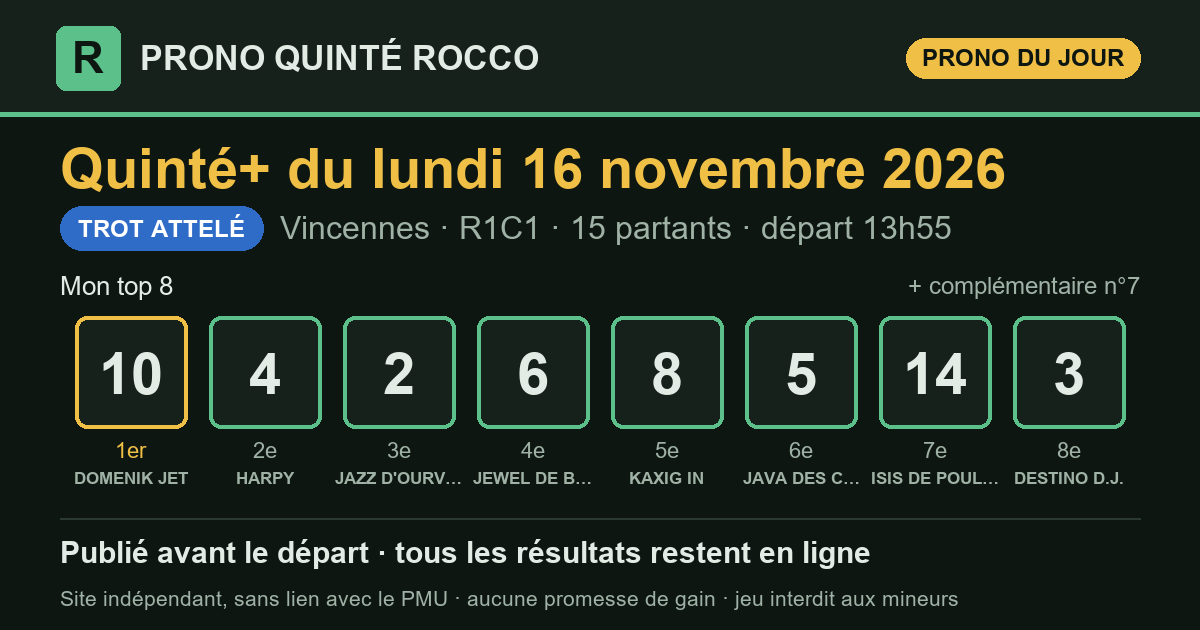
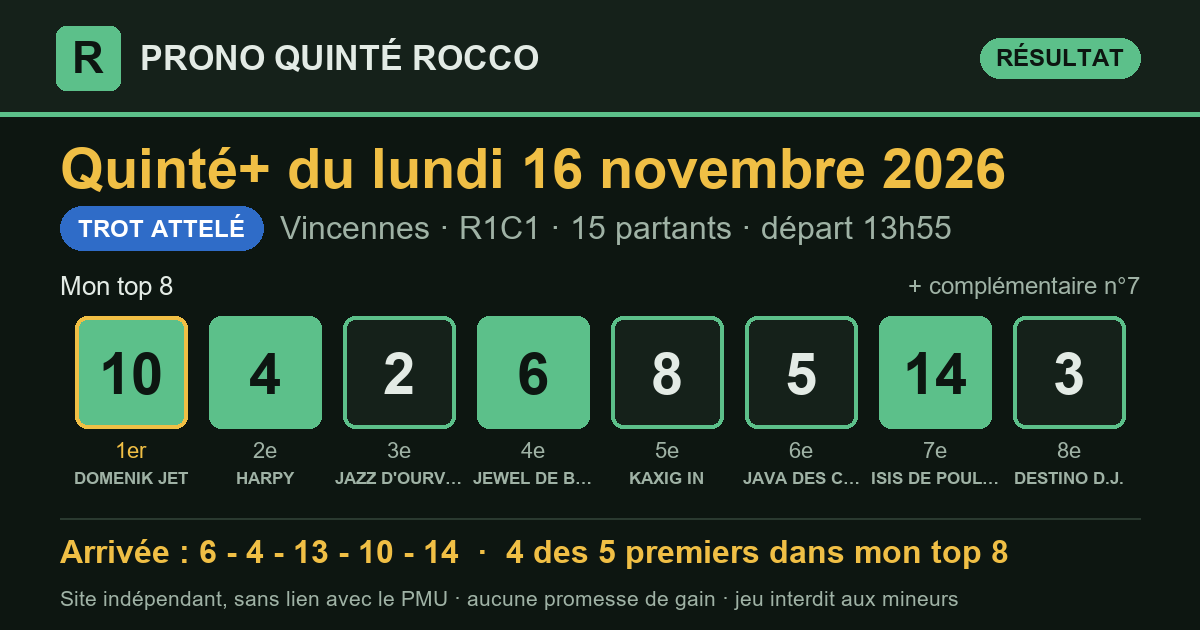
Résultat du Quinté+ 2026-11-16 Vincennes R1C1 — publié le 16/11/2026 14:06 (heure de Paris)

diff --git a/index.html b/index.html
@@ -16,7 +16,7 @@
 <meta property="og:title" content="Pronostics Quinté+ et Super Pick 5 du lundi 16 novembre 2026 — Prono Quinté Rocco">
 <meta property="og:description" content="Pronostics Quinté+ (Prix d&#x27;Aigues Mortes) et Super Pick 5 (Prix de Paimpol) du jour : mes top 8, publiés avant le départ, puis tous les résultats et le rendement réel.">
 <meta property="og:url" content="https://prono-quinte-rocco.fr/">
-<meta property="og:image" content="https://prono-quinte-rocco.fr/partage/jour-2026-11-16.png?v=d9d3d059">
+<meta property="og:image" content="https://prono-quinte-rocco.fr/partage/jour-2026-11-16.png?v=507f155d">
 <meta property="og:image:type" content="image/png">
 <meta property="og:image:width" content="1200">
 <meta property="og:image:height" content="630">
@@ -32,7 +32,7 @@
 <div class="jeux j-quinte" role="navigation" aria-label="Choix du jeu"><a class="jeu jeu-quinte actif" href="index.html" aria-current="true">Quinté+</a><a class="jeu jeu-sp5" href="superpick5.html">e-Super Pick5<small>entre 17 h et 19 h</small></a></div>
 <main>
 <section class="une" aria-labelledby="t-jour">
-  <p class="surtitre">Quinté+ du jour</p>
+  <p class="surtitre">Dernier Quinté+</p>
   <h1 id="t-jour">Le prono du Quinté+, résultats compris</h1>
   <p class="chapo">Chaque matin, j'étudie les partants du Quinté+ avec le logiciel que
   j'ai conçu, selon ma propre méthode, qu'une intelligence artificielle m'aide à
@@ -43,10 +43,13 @@
   <p class="meta">Prix d&#x27;Aigues Mortes · Vincennes · <strong>R1C1</strong> · 15 partants · <span class="lisib">lisibilité <span class="note" aria-label="note 3 sur 5" title="lisibilité 3/5 : course assez ouverte"><i class="on"></i><i class="on"></i><i class="on"></i><i class=""></i><i class=""></i></span> 3/5</span></p>
   <div class="zone-prono">
     <h3 class="zone-titre">Mon top 8</h3>
-    <ol class="partants" aria-label="Mon top 8"><li><span class="rang">1<sup>er</sup></span><span class="tapis ">10</span><span class="nom">DOMENIK JET</span></li><li><span class="rang">2<sup>e</sup></span><span class="tapis ">4</span><span class="nom">HARPY</span></li><li><span class="rang">3<sup>e</sup></span><span class="tapis ">2</span><span class="nom">JAZZ D&#x27;OURVILLE</span></li><li><span class="rang">4<sup>e</sup></span><span class="tapis ">6</span><span class="nom">JEWEL DE BANVILLE</span></li><li><span class="rang">5<sup>e</sup></span><span class="tapis ">8</span><span class="nom">KAXIG IN</span></li><li><span class="rang">6<sup>e</sup></span><span class="tapis ">5</span><span class="nom">JAVA DES CAILLONS</span></li><li><span class="rang">7<sup>e</sup></span><span class="tapis ">14</span><span class="nom">ISIS DE POULINE</span></li><li><span class="rang">8<sup>e</sup></span><span class="tapis ">3</span><span class="nom">DESTINO D.J.</span></li><li><span class="rang">compl.</span><span class="tapis creux">7</span><span class="nom">IQUEM</span></li></ol>
+    <ol class="partants" aria-label="Mon top 8"><li><span class="rang">1<sup>er</sup></span><span class="tapis plein">10</span><span class="nom">DOMENIK JET</span></li><li><span class="rang">2<sup>e</sup></span><span class="tapis plein">4</span><span class="nom">HARPY</span></li><li><span class="rang">3<sup>e</sup></span><span class="tapis ">2</span><span class="nom">JAZZ D&#x27;OURVILLE</span></li><li><span class="rang">4<sup>e</sup></span><span class="tapis plein">6</span><span class="nom">JEWEL DE BANVILLE</span></li><li><span class="rang">5<sup>e</sup></span><span class="tapis ">8</span><span class="nom">KAXIG IN</span></li><li><span class="rang">6<sup>e</sup></span><span class="tapis ">5</span><span class="nom">JAVA DES CAILLONS</span></li><li><span class="rang">7<sup>e</sup></span><span class="tapis plein">14</span><span class="nom">ISIS DE POULINE</span></li><li><span class="rang">8<sup>e</sup></span><span class="tapis ">3</span><span class="nom">DESTINO D.J.</span></li><li><span class="rang">compl.</span><span class="tapis creux">7</span><span class="nom">IQUEM</span></li></ol>
     <div class="pied-carte"><span>Analysé le 16/11 à 09:40 · en ligne le 16/11 à 09:51 · départ à 13:55 (heure de Paris)</span><span><a href="quinte/2026-11-16.html">Détail de la course</a></span></div>
   </div>
-  <div class="zone-arrivee attente"><p>L'arrivée officielle s'affichera ici après la course.</p></div>
+  <div class="zone-arrivee">
+    <div class="zone-tete"><h3 class="zone-titre">Arrivée officielle</h3><span class="etat place">4 des 5 premiers dans mon top 8</span><span class="etat non">mon 1er (n°10) : non placé</span></div>
+    <ol class="partants" aria-label="Arrivée officielle"><li><span class="rang">1<sup>er</sup></span><span class="tapis plein">6</span><span class="nom">JEWEL DE BANVILLE</span></li><li><span class="rang">2<sup>e</sup></span><span class="tapis plein">4</span><span class="nom">HARPY</span></li><li><span class="rang">3<sup>e</sup></span><span class="tapis hors">13</span><span class="nom">MAX OCCAGNES</span></li><li><span class="rang">4<sup>e</sup></span><span class="tapis plein">10</span><span class="nom">DOMENIK JET</span></li><li><span class="rang">5<sup>e</sup></span><span class="tapis plein">14</span><span class="nom">ISIS DE POULINE</span></li></ol>
+  </div>
 </article>
 </section>
 <section class="suivre" aria-label="Suivre et soutenir">
@@ -76,7 +79,7 @@
 </section>
 <section class="bilan" aria-labelledby="t-bilan">
   <h2 id="t-bilan">Mon bilan depuis le 8 septembre 2026</h2>
-  <div class="tableau chiffres"><div class="case"><span class="gros ">73 %</span><span class="lib">des arrivants trouvés dans mon top 8</span><span class="ref">un top 8 tiré au hasard : 51 %</span></div><div class="case"><span class="gros ">88 %</span><span class="lib">des gagnants présents dans mon top 8</span><span class="ref"></span></div><div class="case"><span class="gros ">49 %</span><span class="lib">mon 1er placé</span><span class="ref">sur 68 Quintés</span></div><div class="case"><span class="gros perte">0,89 €</span><span class="lib">rendus pour 1 € joué placé sur mon 1er</span><span class="ref">rapports officiels PMU</span></div><div class="case"><span class="gros perte">0,43 €</span><span class="lib">rendus pour 1 € joué en Quinté+ combiné sur mon top 8</span><span class="ref">56 combinaisons, rapports PMU.fr, sur 68 Quintés</span></div></div>
+  <div class="tableau chiffres"><div class="case"><span class="gros ">73 %</span><span class="lib">des arrivants trouvés dans mon top 8</span><span class="ref">un top 8 tiré au hasard : 51 %</span></div><div class="case"><span class="gros ">88 %</span><span class="lib">des gagnants présents dans mon top 8</span><span class="ref"></span></div><div class="case"><span class="gros ">48 %</span><span class="lib">mon 1er placé</span><span class="ref">sur 69 Quintés</span></div><div class="case"><span class="gros perte">0,88 €</span><span class="lib">rendus pour 1 € joué placé sur mon 1er</span><span class="ref">rapports officiels PMU</span></div><div class="case"><span class="gros perte">0,43 €</span><span class="lib">rendus pour 1 € joué en Quinté+ combiné sur mon top 8</span><span class="ref">56 combinaisons, rapports PMU.fr, sur 69 Quintés</span></div></div>
   <p class="avertissement">Moins de 1 € rendu pour 1 € joué : suivre mon prono à la lettre fait <strong>perdre de l'argent</strong> sur cette période. Il sert à analyser une course, pas à promettre un gain.</p>
 </section>
 </main>

diff --git a/partants.html b/partants.html
@@ -36,89 +36,89 @@
     <p class="fiche-depart">Départ <b>13:55</b> <span>heure de Paris</span></p>
   </div>
   <p class="surtitre">Les pronostics ailleurs sur le web</p>
-  <div class="liens"><a class="lien-ext" href="https://www.turfoo.fr/programmes-courses/261116/reunion1-vincennes/course1-prix-d-aigues-mortes/pronostics-presse/" rel="noopener" target="_blank"><b>Les pronostics de la presse →</b><span>sur Turfoo (site extérieur)</span></a><a class="lien-ext" href="https://www.geny.com/programme/2026-11-16" rel="noopener" target="_blank"><b>Partants et pronostics →</b><span>programme du jour sur Geny (site extérieur)</span></a></div>
+  <div class="liens"><a class="lien-ext" href="https://www.turfoo.fr/programmes-courses/261116/" rel="noopener" target="_blank"><b>Les pronostics de la presse →</b><span>sur Turfoo (site extérieur)</span></a><a class="lien-ext" href="https://www.geny.com/programme/2026-11-16" rel="noopener" target="_blank"><b>Partants et pronostics →</b><span>programme du jour sur Geny (site extérieur)</span></a></div>
   <div class="liste-boite"><table class="liste-partants">
     <thead><tr><th>N°</th><th>Cheval</th><th class="cote"><span class="long">Cote du matin</span><span class="court">Cote</span></th>
     <th class="ia"><span class="long">Mon prono</span><span class="court">Prono</span></th></tr></thead>
     <tbody><tr>
   <td><span class="tapis petit">1</span></td>
   <td><span class="cheval">ILIANO DES PLAINES</span><span class="sous">A. BARRIER · E. BOUYER</span></td>
-  <td class="cote num">37,0</td>
+  <td class="cote num">49,0</td>
   <td class="ia">—</td>
 </tr><tr>
   <td><span class="tapis petit">2</span></td>
   <td><span class="cheval">JAZZ D&#x27;OURVILLE</span><span class="sous">M. ABRIVARD · M. ABRIVARD</span></td>
-  <td class="cote num">7,8</td>
+  <td class="cote num">7,7</td>
   <td class="ia"><span class="etat place">3<sup>e</sup></span></td>
 </tr><tr>
   <td><span class="tapis petit">3</span></td>
   <td><span class="cheval">DESTINO D.J.</span><span class="sous">B. ROCHARD · H.E. BONDO</span></td>
-  <td class="cote num">14,0</td>
+  <td class="cote num">12,0</td>
   <td class="ia"><span class="etat place">8<sup>e</sup></span></td>
 </tr><tr>
   <td><span class="tapis petit">4</span></td>
   <td><span class="cheval">HARPY</span><span class="sous">R. BERGH · R. BERGH</span></td>
-  <td class="cote num">4,2</td>
+  <td class="cote num">4,8</td>
   <td class="ia"><span class="etat place">2<sup>e</sup></span></td>
 </tr><tr>
   <td><span class="tapis petit">5</span></td>
   <td><span class="cheval">JAVA DES CAILLONS</span><span class="sous">F. LAGADEUC · Sté. Ent. Christophe JARIEL</span></td>
-  <td class="cote num">17,0</td>
+  <td class="cote num">15,0</td>
   <td class="ia"><span class="etat place">6<sup>e</sup></span></td>
 </tr><tr>
   <td><span class="tapis petit">6</span></td>
   <td><span class="cheval">JEWEL DE BANVILLE</span><span class="sous">E. RAFFIN · A. CHAVATTE</span></td>
-  <td class="cote num">7,4</td>
+  <td class="cote num">7,7</td>
   <td class="ia"><span class="etat place">4<sup>e</sup></span></td>
 </tr><tr>
   <td><span class="tapis petit">7</span></td>
   <td><span class="cheval">IQUEM</span><span class="sous">A. COLLETTE · K. LEBLANC</span></td>
-  <td class="cote num">25,0</td>
+  <td class="cote num">27,0</td>
   <td class="ia"><span class="etat place">compl.</span></td>
 </tr><tr>
   <td><span class="tapis petit">8</span></td>
   <td><span class="cheval">KAXIG IN</span><span class="sous">M. MOTTIER · David PERSSON</span></td>
-  <td class="cote num">8,3</td>
+  <td class="cote num">8,4</td>
   <td class="ia"><span class="etat place">5<sup>e</sup></span></td>
 </tr><tr>
   <td><span class="tapis petit">9</span></td>
   <td><span class="cheval">I LOVE JOSSELYN</span><span class="sous">R. DERIEUX · R. DERIEUX</span></td>
-  <td class="cote num">31,0</td>
+  <td class="cote num">42,0</td>
   <td class="ia">—</td>
 </tr><tr>
   <td><span class="tapis petit">10</span></td>
   <td><span class="cheval">DOMENIK JET</span><span class="sous">G. GELORMINI · W. NIMCZYK</span></td>
-  <td class="cote num">5,5</td>
+  <td class="cote num">4,4</td>
   <td class="ia"><span class="etat place">1<sup>er</sup></span></td>
 </tr><tr>
   <td><span class="tapis petit">11</span></td>
   <td><span class="cheval">DILVA JET</span><span class="sous">A. ANDRE · H.E. BONDO</span></td>
-  <td class="cote num">50,0</td>
+  <td class="cote num">85,0</td>
   <td class="ia">—</td>
 </tr><tr>
   <td><span class="tapis petit">12</span></td>
   <td><span class="cheval">JUNKIE (SWE)</span><span class="sous">A. ABRIVARD · P. LEVESQUE</span></td>
-  <td class="cote num">44,0</td>
+  <td class="cote num">47,0</td>
   <td class="ia">—</td>
 </tr><tr>
   <td><span class="tapis petit">13</span></td>
   <td><span class="cheval">MAX OCCAGNES</span><span class="sous">D. LOCQUENEUX · D. LOCQUENEUX</span></td>
-  <td class="cote num">29,0</td>
+  <td class="cote num">49,0</td>
   <td class="ia">—</td>
 </tr><tr>
   <td><span class="tapis petit">14</span></td>
   <td><span class="cheval">ISIS DE POULINE</span><span class="sous">P.PH. PLOQUIN · J.L. VERRIERE</span></td>
-  <td class="cote num">39,0</td>
+  <td class="cote num">35,0</td>
   <td class="ia"><span class="etat place">7<sup>e</sup></span></td>
 </tr><tr>
   <td><span class="tapis petit">15</span></td>
   <td><span class="cheval">JAG HAUFOR</span><span class="sous">D. THOMAIN · CH. BIGEON</span></td>
-  <td class="cote num">23,0</td>
+  <td class="cote num">20,0</td>
   <td class="ia">—</td>
 </tr></tbody>
   </table></div>
   <p class="meta">La colonne « Mon prono » donne le rang de chaque cheval dans mon top 8, tel qu&#x27;il est publié sur ce site. Sous chaque cheval : driver · entraîneur. Partants et cotes : programme
-  officiel du PMU, lu le 16/11 à 09:51 (heure de Paris). NP = non-partant.</p>
+  officiel du PMU, lu le 16/11 à 14:06 (heure de Paris). NP = non-partant.</p>
 </section>
 </main>
 <footer class="pied">

diff --git a/quinte/2026-11-16.html b/quinte/2026-11-16.html
@@ -16,7 +16,7 @@
 <meta property="og:title" content="Pronostic Quinté+ du lundi 16 novembre 2026 : Prix d&#x27;Aigues Mortes à Vincennes — Prono Quinté Rocco">
 <meta property="og:description" content="Prono Quinté+ du lundi 16 novembre 2026 (Prix d&#x27;Aigues Mortes, Vincennes) : mon top 8, l&#x27;arrivée officielle et les rapports PMU.fr.">
 <meta property="og:url" content="https://prono-quinte-rocco.fr/quinte/2026-11-16.html">
-<meta property="og:image" content="https://prono-quinte-rocco.fr/partage/2026-11-16.png?v=a4883de8">
+<meta property="og:image" content="https://prono-quinte-rocco.fr/partage/2026-11-16.png?v=60ff8115">
 <meta property="og:image:type" content="image/png">
 <meta property="og:image:width" content="1200">
 <meta property="og:image:height" content="630">
@@ -36,15 +36,25 @@
   <h1>Pronostic Quinté+ du lundi 16 novembre 2026</h1>
   <p class="chapo">Prix d&#x27;Aigues Mortes · Vincennes · R1C1 · Attelé · 15 partants</p>
   <article class="carte-course">
-  <div class="tete"><h2>Mon prono</h2><span class="type t-attele">Trot attelé</span></div>
+  <div class="tete"><h2>Mon prono et l&#x27;arrivée officielle</h2><span class="type t-attele">Trot attelé</span></div>
   <p class="meta">Prix d&#x27;Aigues Mortes · Vincennes · <strong>R1C1</strong> · 15 partants · <span class="lisib">lisibilité <span class="note" aria-label="note 3 sur 5" title="lisibilité 3/5 : course assez ouverte"><i class="on"></i><i class="on"></i><i class="on"></i><i class=""></i><i class=""></i></span> 3/5</span></p>
   <div class="zone-prono">
     <h3 class="zone-titre">Mon top 8</h3>
-    <ol class="partants" aria-label="Mon top 8"><li><span class="rang">1<sup>er</sup></span><span class="tapis ">10</span><span class="nom">DOMENIK JET</span></li><li><span class="rang">2<sup>e</sup></span><span class="tapis ">4</span><span class="nom">HARPY</span></li><li><span class="rang">3<sup>e</sup></span><span class="tapis ">2</span><span class="nom">JAZZ D&#x27;OURVILLE</span></li><li><span class="rang">4<sup>e</sup></span><span class="tapis ">6</span><span class="nom">JEWEL DE BANVILLE</span></li><li><span class="rang">5<sup>e</sup></span><span class="tapis ">8</span><span class="nom">KAXIG IN</span></li><li><span class="rang">6<sup>e</sup></span><span class="tapis ">5</span><span class="nom">JAVA DES CAILLONS</span></li><li><span class="rang">7<sup>e</sup></span><span class="tapis ">14</span><span class="nom">ISIS DE POULINE</span></li><li><span class="rang">8<sup>e</sup></span><span class="tapis ">3</span><span class="nom">DESTINO D.J.</span></li><li><span class="rang">compl.</span><span class="tapis creux">7</span><span class="nom">IQUEM</span></li></ol>
+    <ol class="partants" aria-label="Mon top 8"><li><span class="rang">1<sup>er</sup></span><span class="tapis plein">10</span><span class="nom">DOMENIK JET</span></li><li><span class="rang">2<sup>e</sup></span><span class="tapis plein">4</span><span class="nom">HARPY</span></li><li><span class="rang">3<sup>e</sup></span><span class="tapis ">2</span><span class="nom">JAZZ D&#x27;OURVILLE</span></li><li><span class="rang">4<sup>e</sup></span><span class="tapis plein">6</span><span class="nom">JEWEL DE BANVILLE</span></li><li><span class="rang">5<sup>e</sup></span><span class="tapis ">8</span><span class="nom">KAXIG IN</span></li><li><span class="rang">6<sup>e</sup></span><span class="tapis ">5</span><span class="nom">JAVA DES CAILLONS</span></li><li><span class="rang">7<sup>e</sup></span><span class="tapis plein">14</span><span class="nom">ISIS DE POULINE</span></li><li><span class="rang">8<sup>e</sup></span><span class="tapis ">3</span><span class="nom">DESTINO D.J.</span></li><li><span class="rang">compl.</span><span class="tapis creux">7</span><span class="nom">IQUEM</span></li></ol>
     <div class="pied-carte"><span>Analysé le 16/11 à 09:40 · en ligne le 16/11 à 09:51 · départ à 13:55 (heure de Paris)</span><span></span></div>
   </div>
-  <div class="zone-arrivee attente"><p>L'arrivée officielle s'affichera ici après la course.</p></div>
+  <div class="zone-arrivee">
+    <div class="zone-tete"><h3 class="zone-titre">Arrivée officielle</h3><span class="etat place">4 des 5 premiers dans mon top 8</span><span class="etat non">mon 1er (n°10) : non placé</span></div>
+    <ol class="partants" aria-label="Arrivée officielle"><li><span class="rang">1<sup>er</sup></span><span class="tapis plein">6</span><span class="nom">JEWEL DE BANVILLE</span></li><li><span class="rang">2<sup>e</sup></span><span class="tapis plein">4</span><span class="nom">HARPY</span></li><li><span class="rang">3<sup>e</sup></span><span class="tapis hors">13</span><span class="nom">MAX OCCAGNES</span></li><li><span class="rang">4<sup>e</sup></span><span class="tapis plein">10</span><span class="nom">DOMENIK JET</span></li><li><span class="rang">5<sup>e</sup></span><span class="tapis plein">14</span><span class="nom">ISIS DE POULINE</span></li></ol>
+  </div>
 </article>
+<section class="carte-course rapports" aria-labelledby="t-rap">
+  <div class="tete"><h2 id="t-rap">Les rapports</h2></div>
+  <div class="deux">
+    <div><h3>Ce qu'aurait rendu mon prono</h3><dl class="kv"><dt>1 € placé sur mon 1er (n°10)</dt><dd class="perte">0,00 €</dd><dt>1 € gagnant sur mon 1er</dt><dd class="perte">0,00 €</dd><dt>Quinté+ combiné sur mon top 8 (mise 112 €)</dt><dd class="partiel"><span class="etat partiel somme">49,60 €</span></dd><dd class="dont">dont Bonus 4sur5 × 4</dd></dl></div>
+    <div><h3>Rapports officiels</h3><dl class="kv"><dt>e-Quinté+ Ordre (2 €)</dt><dd>36 357,60 €</dd><dt>e-Quinté+ Désordre (2 €)</dt><dd>447,20 €</dd><dt>e-Bonus 4sur5 (2 €)</dt><dd>12,40 €</dd><dt>e-Bonus 3 (2 €)</dt><dd>10,40 €</dd></dl></div>
+  </div>
+</section>
 </section>
 </main>
 <footer class="pied">

diff --git a/resultats.html b/resultats.html
@@ -49,12 +49,12 @@
     <th colspan="4" class="res g-res">Le résultat officiel</th></tr>
     <tr><th>Date</th><th>Course</th><th>Top 8</th><th class="c-lis">Lisibilité</th><th class="res c-arr">Arrivée</th>
     <th class="res">Trouvés</th><th class="res">Mon 1er</th><th class="res mont">Quinté+ top 8<br><small>(mise 112 €)</small></th></tr></thead>
-    <tbody><tr class="attente">
+    <tbody><tr>
   <td class="c-date"><a href="quinte/2026-11-16.html">16/11</a></td>
   <td class="c-course">Vincennes<br><span class="meta">R1C1</span><span class="type t-attele petit">Attelé</span></td>
-  <td class="c-top8" data-label="Mon top 8"><div class="rangee"><span class="tapis petit">10</span><span class="tapis petit">4</span><span class="tapis petit">2</span><span class="tapis petit">6</span><span class="tapis petit">8</span><span class="tapis petit">5</span><span class="tapis petit">14</span><span class="tapis petit">3</span></div></td>
+  <td class="c-top8" data-label="Mon top 8"><div class="rangee"><span class="tapis plein petit">10</span><span class="tapis plein petit">4</span><span class="tapis petit">2</span><span class="tapis plein petit">6</span><span class="tapis petit">8</span><span class="tapis petit">5</span><span class="tapis plein petit">14</span><span class="tapis petit">3</span></div></td>
   <td class="c-lis" data-label="Lisibilité"><span class="note" aria-label="note 3 sur 5" title="lisibilité 3/5 : course assez ouverte"><i class="on"></i><i class="on"></i><i class="on"></i><i class=""></i><i class=""></i></span> 3/5</td>
-  <td class="res c-arr" data-label="Arrivée"><span class="etat attente">en attente</span></td><td class="res num c-trouves" data-label="Trouvés">—</td><td class="res c-premier" data-label="Mon 1er"><span class="etat attente">—</span></td><td class="res mont c-mont" data-label="Quinté+ top 8 (mise 112 €)">—</td>
+  <td class="res c-arr" data-label="Arrivée"><div class="rangee"><span class="tapis plein petit" title="1er">6</span><span class="tapis plein petit" title="2e">4</span><span class="tapis hors petit" title="3e">13</span><span class="tapis plein petit" title="4e">10</span><span class="tapis plein petit" title="5e">14</span></div></td><td class="res num c-trouves" data-label="Trouvés"><span class="etat place" title="4 des 5 premiers sont dans mon top 8">4/5</span></td><td class="res c-premier" data-label="Mon 1er"><span class="etat non">non placé</span></td><td class="res mont c-mont partiel" data-label="Quinté+ top 8 (mise 112 €)" title="perte nette : 62,40 €"><span class="etat partiel somme">49,60 €</span></td>
 </tr><tr>
   <td class="c-date"><a href="quinte/2026-11-15.html">15/11</a></td>
   <td class="c-course">Auteuil<br><span class="meta">R1C6</span><span class="type t-steeple petit">Steeple</span></td>
@@ -468,7 +468,7 @@
 </section>
 <section class="bilan" aria-labelledby="t-bilan">
   <h2 id="t-bilan">Mon bilan depuis le 8 septembre 2026</h2>
-  <div class="tableau chiffres"><div class="case"><span class="gros ">73 %</span><span class="lib">des arrivants trouvés dans mon top 8</span><span class="ref">un top 8 tiré au hasard : 51 %</span></div><div class="case"><span class="gros ">88 %</span><span class="lib">des gagnants présents dans mon top 8</span><span class="ref"></span></div><div class="case"><span class="gros ">49 %</span><span class="lib">mon 1er placé</span><span class="ref">sur 68 Quintés</span></div><div class="case"><span class="gros perte">0,89 €</span><span class="lib">rendus pour 1 € joué placé sur mon 1er</span><span class="ref">rapports officiels PMU</span></div><div class="case"><span class="gros perte">0,43 €</span><span class="lib">rendus pour 1 € joué en Quinté+ combiné sur mon top 8</span><span class="ref">56 combinaisons, rapports PMU.fr, sur 68 Quintés</span></div></div>
+  <div class="tableau chiffres"><div class="case"><span class="gros ">73 %</span><span class="lib">des arrivants trouvés dans mon top 8</span><span class="ref">un top 8 tiré au hasard : 51 %</span></div><div class="case"><span class="gros ">88 %</span><span class="lib">des gagnants présents dans mon top 8</span><span class="ref"></span></div><div class="case"><span class="gros ">48 %</span><span class="lib">mon 1er placé</span><span class="ref">sur 69 Quintés</span></div><div class="case"><span class="gros perte">0,88 €</span><span class="lib">rendus pour 1 € joué placé sur mon 1er</span><span class="ref">rapports officiels PMU</span></div><div class="case"><span class="gros perte">0,43 €</span><span class="lib">rendus pour 1 € joué en Quinté+ combiné sur mon top 8</span><span class="ref">56 combinaisons, rapports PMU.fr, sur 69 Quintés</span></div></div>
   <p class="avertissement">Moins de 1 € rendu pour 1 € joué : suivre mon prono à la lettre fait <strong>perdre de l'argent</strong> sur cette période. Il sert à analyser une course, pas à promettre un gain.</p>
 </section>
 </main>

diff --git a/superpick5-partants.html b/superpick5-partants.html
@@ -43,32 +43,32 @@
     <tbody><tr>
   <td><span class="tapis petit">1</span></td>
   <td><span class="cheval">LOUBIANA DU BOURG</span><span class="sous">A. THOMAS · A. THOMAS</span></td>
-  <td class="cote num">10,0</td>
+  <td class="cote num">9,9</td>
   <td class="ia"><span class="etat place">8<sup>e</sup></span></td>
 </tr><tr>
   <td><span class="tapis petit">2</span></td>
   <td><span class="cheval">LA MISS ROYALE</span><span class="sous">PH. DAUGEARD · PH. DAUGEARD</span></td>
-  <td class="cote num">12,0</td>
+  <td class="cote num">17,0</td>
   <td class="ia"><span class="etat place">7<sup>e</sup></span></td>
 </tr><tr>
   <td><span class="tapis petit">3</span></td>
   <td><span class="cheval">LILIE D&#x27;OMAHA</span><span class="sous">M. ABRIVARD · M. ABRIVARD</span></td>
-  <td class="cote num">46,0</td>
+  <td class="cote num">14,0</td>
   <td class="ia">—</td>
 </tr><tr>
   <td><span class="tapis petit">4</span></td>
   <td><span class="cheval">LESPANA DU BOCAGE</span><span class="sous">B. ROCHARD · M. SASSIER</span></td>
-  <td class="cote num">5,8</td>
+  <td class="cote num">4,0</td>
   <td class="ia"><span class="etat place">1<sup>er</sup></span></td>
 </tr><tr>
   <td><span class="tapis petit">5</span></td>
   <td><span class="cheval">LADY DU CHATELET</span><span class="sous">TH. BIZOUX · CL. THOMAIN</span></td>
-  <td class="cote num">53,0</td>
+  <td class="cote num">97,0</td>
   <td class="ia">—</td>
 </tr><tr>
   <td><span class="tapis petit">6</span></td>
   <td><span class="cheval">LOLITA STEED</span><span class="sous">M. IONESCU · R. DERIEUX</span></td>
-  <td class="cote num">35,0</td>
+  <td class="cote num">83,0</td>
   <td class="ia">—</td>
 </tr><tr>
   <td><span class="tapis petit">7</span></td>
@@ -78,42 +78,42 @@
 </tr><tr>
   <td><span class="tapis petit">8</span></td>
   <td><span class="cheval">LA STAR</span><span class="sous">A. ABRIVARD · Mme S. RAIMOND</span></td>
-  <td class="cote num">13,0</td>
+  <td class="cote num">18,0</td>
   <td class="ia"><span class="etat place">5<sup>e</sup></span></td>
 </tr><tr>
   <td><span class="tapis petit">9</span></td>
   <td><span class="cheval">LYRE D&#x27;ERABLE</span><span class="sous">D. THOMAIN · CL. THOMAIN</span></td>
-  <td class="cote num">5,9</td>
+  <td class="cote num">10,0</td>
   <td class="ia"><span class="etat place">4<sup>e</sup></span></td>
 </tr><tr>
   <td><span class="tapis petit">10</span></td>
   <td><span class="cheval">LADY DES ARRIS</span><span class="sous">A. COLLETTE · V. LEBARQUE</span></td>
-  <td class="cote num">18,0</td>
+  <td class="cote num">14,0</td>
   <td class="ia"><span class="etat place">6<sup>e</sup></span></td>
 </tr><tr>
   <td><span class="tapis petit">11</span></td>
   <td><span class="cheval">LEONTINE CASH</span><span class="sous">E. RAFFIN · P. HACHIN</span></td>
-  <td class="cote num">5,9</td>
+  <td class="cote num">5,4</td>
   <td class="ia"><span class="etat place">2<sup>e</sup></span></td>
 </tr><tr>
   <td><span class="tapis petit">12</span></td>
   <td><span class="cheval">LYLOU DES THUYAS</span><span class="sous">A. REBECHE · P.Y. VERVA</span></td>
-  <td class="cote num">23,0</td>
+  <td class="cote num">29,0</td>
   <td class="ia">—</td>
 </tr><tr>
   <td><span class="tapis petit">13</span></td>
   <td><span class="cheval">LA KIFFANCE PIYA</span><span class="sous">S. ERNAULT · S. ERNAULT</span></td>
-  <td class="cote num">7,4</td>
+  <td class="cote num">7,3</td>
   <td class="ia"><span class="etat place">3<sup>e</sup></span></td>
 </tr><tr>
   <td><span class="tapis petit">14</span></td>
   <td><span class="cheval">LA CALLAS</span><span class="sous">A. ANDRE · St. PROVOOST</span></td>
-  <td class="cote num">17,0</td>
+  <td class="cote num">21,0</td>
   <td class="ia">—</td>
 </tr></tbody>
   </table></div>
   <p class="meta">La colonne « Mon prono » donne le rang de chaque cheval dans mon top 8, tel qu&#x27;il est publié sur ce site. Sous chaque cheval : driver · entraîneur. Partants et cotes : programme
-  officiel du PMU, lu le 16/11 à 09:51 (heure de Paris). NP = non-partant.</p>
+  officiel du PMU, lu le 16/11 à 14:06 (heure de Paris). NP = non-partant.</p>
 </section>
 </main>
 <footer class="pied">
